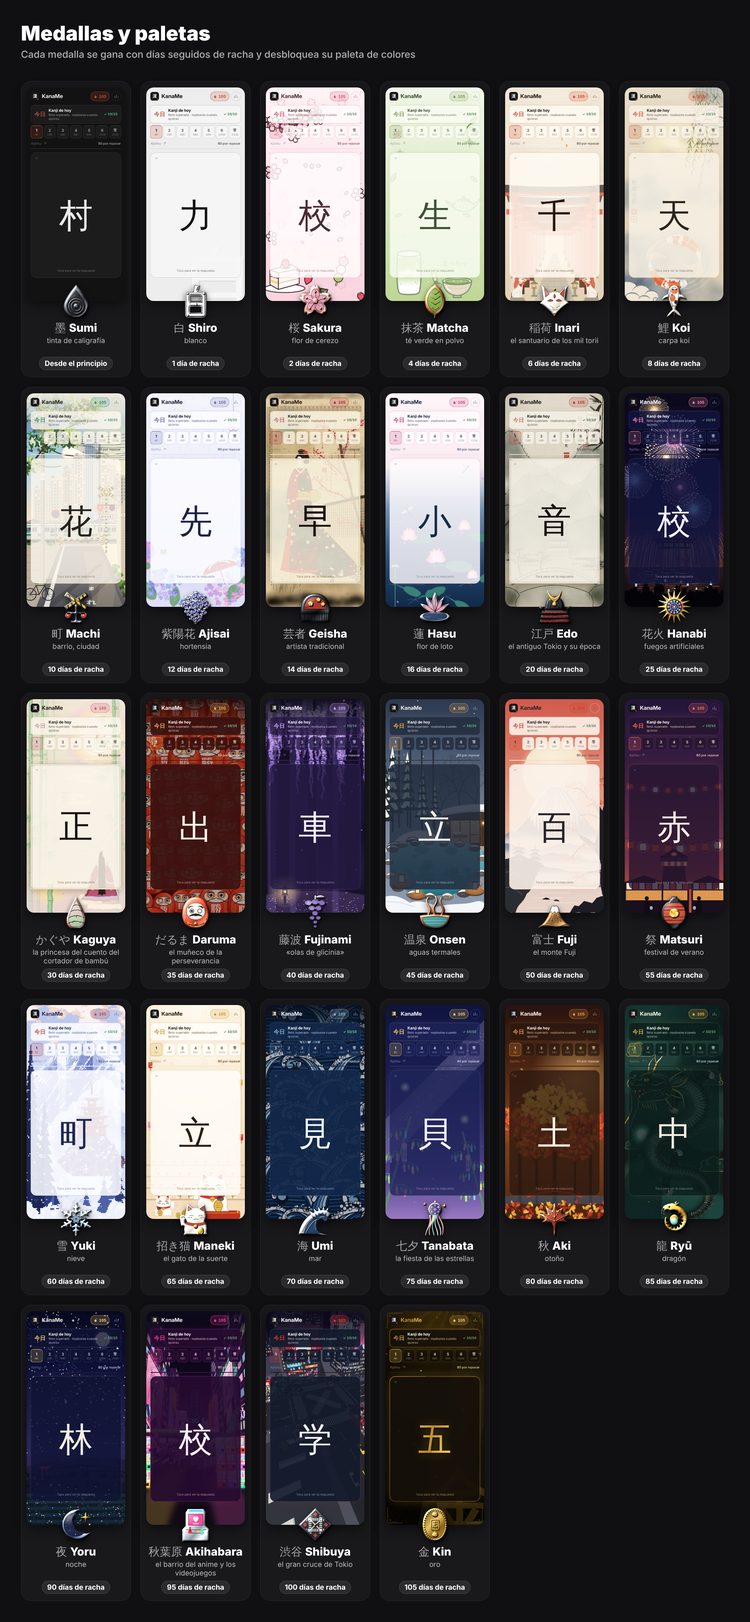
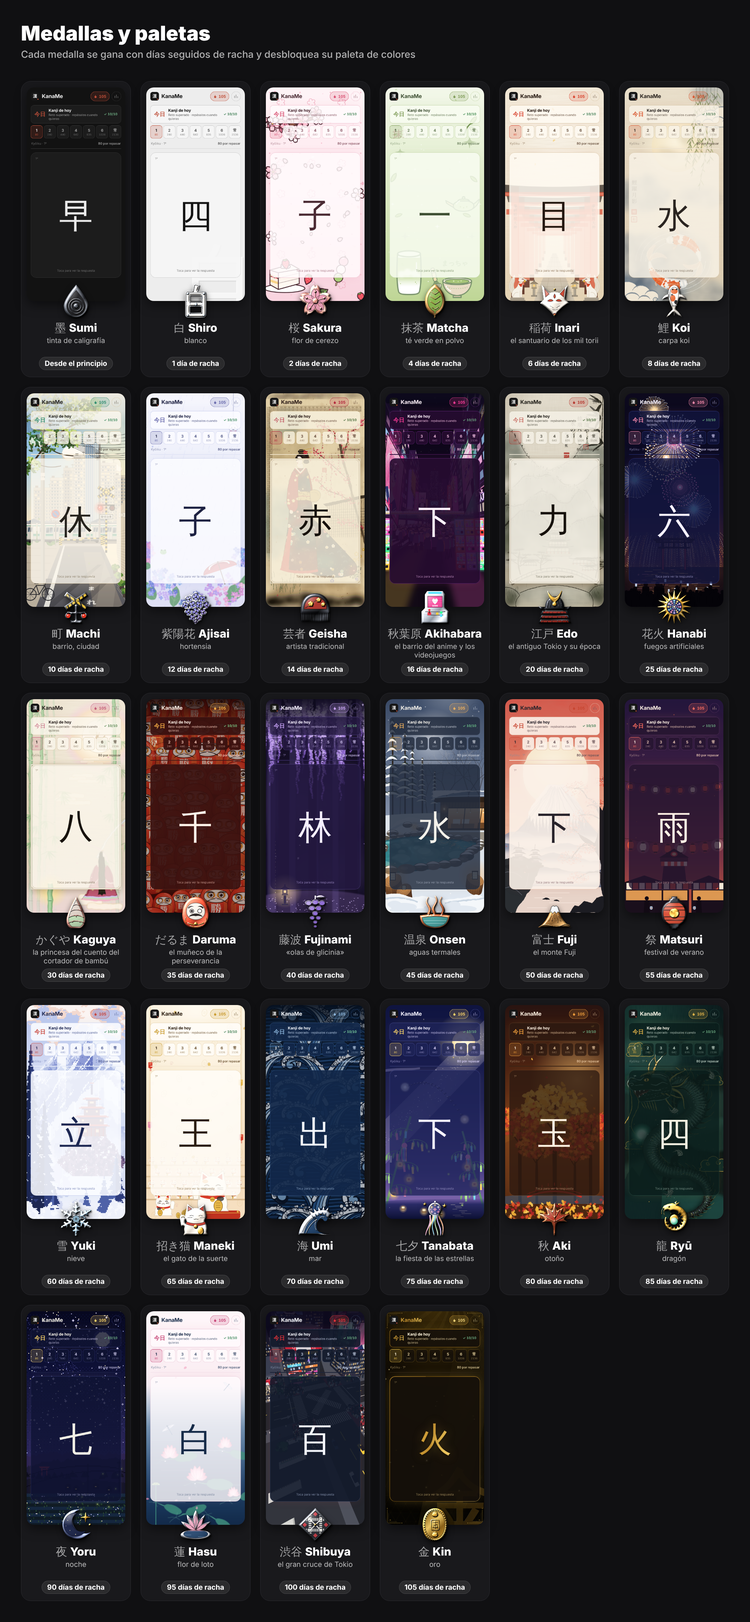
Onsen redibujado, Tanabata con luna y luciérnagas, Akihabara antes en la racha y comando rachaX

diff --git a/index.html b/index.html
@@ -3072,8 +3072,119 @@
   patchPal("shibuya", { bg: "#0b1020", surface: "#131a2c", raised: "#1b2438", hairline: "#33405c", text: "#f4f6fb", muted: "#b8c2d8", faint: "#7a86a0", accent: "#e8333a", status: "#ffd23f", surfA: "ea", grad: "#0b1020",
     pantone: "Inspirada en PANTONE Fiery Red 18-1664 (la gran pantalla y las esquinas), Classic Blue 19-4052 (la noche) y Bright White 11-0601 (las cebras)" });
 
+  // ================== v6 · 温泉 Onsen (v3): rotenburo nevado al anochecer, en 3D ==================
+  var ONP = null;
+  function onCam() { return ONP || (ONP = makeCam([0, 3.4, -1.6], .3, 0, 380, 200, 520)); }
+  function onsenScene3() {
+    var P = onCam(), r = seeded(1201), s = '<defs>' +
+      '<linearGradient id="os3" x1="0" y1="0" x2="0" y2="1"><stop offset="0" stop-color="#3a4a66"/><stop offset=".5" stop-color="#7a8aa6"/><stop offset="1" stop-color="#b8c4d4"/></linearGradient>' +
+      '<radialGradient id="ow3" cx=".5" cy=".4" r=".7"><stop offset="0" stop-color="#8ae0e6"/><stop offset=".6" stop-color="#3aa6b4"/><stop offset="1" stop-color="#1a6a7a"/></radialGradient>' +
+      '<radialGradient id="olg3"><stop offset="0" stop-color="#ffd59a" stop-opacity=".9"/><stop offset=".35" stop-color="#ffb35e" stop-opacity=".35"/><stop offset="1" stop-color="#ffb35e" stop-opacity="0"/></radialGradient>' +
+      '<linearGradient id="oin3" x1="0" y1="0" x2="0" y2="1"><stop offset="0" stop-color="#ffcf8a"/><stop offset="1" stop-color="#c8783a"/></linearGradient>' +
+      '<filter id="obl3" x="-30%" y="-30%" width="160%" height="160%"><feGaussianBlur stdDeviation="2.2"/></filter><filter id="obl4" x="-30%" y="-30%" width="160%" height="160%"><feGaussianBlur stdDeviation="7"/></filter>' +
+      '<filter id="osn" x="-10%" y="-10%" width="120%" height="120%"><feTurbulence type="fractalNoise" baseFrequency=".05" numOctaves="3" seed="4" result="n"/><feDisplacementMap in="SourceGraphic" in2="n" scale="6"/></filter></defs>';
+    s += '<rect width="400" height="860" fill="url(#os3)"/>';
+    // bosque al fondo: árboles desnudos nevados y cedros
+    function bare(x, y, len, a, dpt, w) { if (dpt === 0) return ''; var x2 = x + Math.cos(a) * len, y2 = y + Math.sin(a) * len, o = '<path d="M' + f(x) + ' ' + f(y) + 'L' + f(x2) + ' ' + f(y2) + '" stroke="#3a3a44" stroke-width="' + f(w) + '" stroke-linecap="round"/>'; if (dpt < 4 && r() > .4) o += '<path d="M' + f(x) + ' ' + f(y - w * .6) + 'L' + f(x2) + ' ' + f(y2 - w * .6) + '" stroke="#f4f7fa" stroke-width="' + f(w * .6) + '" stroke-linecap="round"/>'; return o + bare(x2, y2, len * .74, a - .3 - r() * .35, dpt - 1, w * .66) + bare(x2, y2, len * .74, a + .28 + r() * .35, dpt - 1, w * .66); }
+    s += '<g opacity=".75">' + bare(250, 470, 80, -1.6, 7, 4.4) + bare(330, 470, 90, -1.5, 7, 5) + bare(170, 470, 70, -1.7, 7, 3.6) + bare(395, 460, 80, -1.8, 7, 4.4) + bare(60, 470, 70, -1.55, 6, 3.4) + '</g>';
+    function cedar(x, base, h, w) { var o = '<rect x="' + f(x - 3) + '" y="' + f(base - h) + '" width="6" height="' + f(h) + '" fill="#2a2420"/>'; for (var k = 0; k < 9; k++) { var yy = base - h * .25 - k * h * .085, ww = w * (1 - k * .09); o += '<path d="M' + f(x - ww) + ' ' + f(yy) + 'Q' + f(x) + ' ' + f(yy - h * .1) + ' ' + f(x + ww) + ' ' + f(yy) + 'L' + f(x + ww * .3) + ' ' + f(yy - h * .06) + 'H' + f(x - ww * .3) + 'Z" fill="#20302c"/><path d="M' + f(x - ww * .9) + ' ' + f(yy - 2) + 'Q' + f(x - ww * .2) + ' ' + f(yy - h * .1) + ' ' + f(x + ww * .7) + ' ' + f(yy - 3) + 'Q' + f(x) + ' ' + f(yy - h * .05) + ' ' + f(x - ww * .9) + ' ' + f(yy - 2) + 'Z" fill="#f2f5f8"/>'; } return o; }
+    [[110, 480, 300, 34], [30, 500, 420, 50], [80, 490, 360, 42], [150, 476, 240, 28], [-20, 510, 460, 56], [200, 470, 180, 22]].forEach(function (c) { s += cedar(c[0], c[1], c[2], c[3]); });
+    s += '<path d="M-10 470C80 456 200 462 410 452V860H-10Z" fill="#dfe7f0"/>';
+    // ladera nevada con rocas y lucecitas (izquierda)
+    s += '<path d="M-10 600C10 500 60 470 120 476 160 480 180 500 186 540L170 620H-10Z" fill="#e8eef4" filter="url(#osn)"/><path d="M-10 560C30 510 80 494 140 500" fill="none" stroke="#c9d4e0" stroke-width="8" filter="url(#osn)"/>';
+    [[30, 540, 24, 14], [90, 506, 20, 12], [140, 520, 16, 10], [60, 574, 26, 15], [10, 596, 20, 12]].forEach(function (k) { s += '<ellipse cx="' + k[0] + '" cy="' + k[1] + '" rx="' + k[2] + '" ry="' + k[3] + '" fill="#5a5450"/><ellipse cx="' + (k[0] - k[2] * .25) + '" cy="' + (k[1] - k[3] * .3) + '" rx="' + (k[2] * .5) + '" ry="' + (k[3] * .4) + '" fill="#7a726a"/><path d="M' + (k[0] - k[2]) + ' ' + (k[1] - 2) + 'Q' + k[0] + ' ' + (k[1] - k[3] * 1.7) + ' ' + (k[0] + k[2]) + ' ' + (k[1] - 2) + 'Q' + k[0] + ' ' + (k[1] - k[3] * .7) + ' ' + (k[0] - k[2]) + ' ' + (k[1] - 2) + 'Z" fill="#f6f8fb"/>'; });
+    [[56, 556], [118, 514], [20, 610]].forEach(function (l) { s += '<circle cx="' + l[0] + '" cy="' + l[1] + '" r="22" fill="url(#olg3)"/><circle cx="' + l[0] + '" cy="' + l[1] + '" r="2.4" fill="#fff4d8"/>'; });
+    // cabaña de madera con el ventanal encendido (derecha)
+    var Pc = function (x, y, z) { return P(x - 1.6, y, z - 1.4); };
+    var c0 =Pc(2.2, 0, 10), c1 =Pc(9, 0, 10), c2 =Pc(2.2, 3, 10), c3 =Pc(9, 3, 10);
+    s += '<path d="' + poly(Pc, [[2.2, 0, 10], [2.2, 3.1, 10], [9, 3.1, 10], [9, 0, 10]]) + '" fill="#4a3426"/>';
+    for (var pl = 0; pl < 22; pl++) { var px = 2.2 + pl * .31; s += '<path d="M' +Pc(px, 0, 10).slice(0, 2).map(f).join(' ') + 'L' +Pc(px, 3.1, 10).slice(0, 2).map(f).join(' ') + '" stroke="#33241a" stroke-width="1.1"/>'; }
+    s += '<path d="' + poly(Pc, [[3, .2, 9.98], [3, 2.5, 9.98], [8.4, 2.5, 9.98], [8.4, .2, 9.98]]) + '" fill="url(#oin3)"/>';
+    // interior: banco, cojines, mesa y bombillas colgando
+    s += '<path d="' + poly(Pc, [[3.4, .2, 9.97], [3.4, .8, 9.97], [6, .8, 9.97], [6, .2, 9.97]]) + '" fill="#8a5a34"/><path d="' + poly(Pc, [[3.6, .8, 9.96], [3.6, 1.3, 9.96], [4.4, 1.3, 9.96], [4.4, .8, 9.96]]) + '" fill="#f3e6d0"/><path d="' + poly(Pc, [[4.6, .8, 9.96], [4.6, 1.3, 9.96], [5.4, 1.3, 9.96], [5.4, .8, 9.96]]) + '" fill="#f3e6d0"/><path d="' + poly(Pc, [[6.4, .2, 9.97], [6.4, .9, 9.97], [7.8, .9, 9.97], [7.8, .2, 9.97]]) + '" fill="#6a4426"/>';
+    [4, 5.4, 6.8, 7.8].forEach(function (bx) { var t =Pc(bx, 2.5, 9.96), b =Pc(bx, 2.1, 9.96); s += '<path d="M' + f(t[0]) + ' ' + f(t[1]) + 'L' + f(b[0]) + ' ' + f(b[1]) + '" stroke="#3a2a1e" stroke-width=".8"/><circle cx="' + f(b[0]) + '" cy="' + f(b[1] + 3) + '" r="10" fill="url(#olg3)"/><circle cx="' + f(b[0]) + '" cy="' + f(b[1] + 3) + '" r="2.6" fill="#fff6d8"/>'; });
+    [4.8, 6.6].forEach(function (mx) { s += '<path d="M' +Pc(mx, .2, 9.95).slice(0, 2).map(f).join(' ') + 'L' +Pc(mx, 2.5, 9.95).slice(0, 2).map(f).join(' ') + '" stroke="#3a2a1e" stroke-width="3"/>'; });
+    s += '<path d="' + poly(Pc, [[3, .2, 9.95], [3, 2.5, 9.95], [8.4, 2.5, 9.95], [8.4, .2, 9.95]]) + '" fill="none" stroke="#2a1e16" stroke-width="3"/>';
+    s += '<path d="' + poly(Pc, [[3, 2.5, 9.94], [3, 1.6, 9.94], [8.4, 2.5, 9.94]]) + '" fill="#fff" fill-opacity=".08"/>';
+    // farolillos de pared y tejado con nieve gruesa
+    [[2.6, 2.4], [8.8, 2.4]].forEach(function (w) { var p =Pc(w[0], w[1], 9.95); s += '<circle cx="' + f(p[0]) + '" cy="' + f(p[1]) + '" r="22" fill="url(#olg3)"/><rect x="' + f(p[0] - 3) + '" y="' + f(p[1] - 4) + '" width="6" height="8" rx="1.4" fill="#ffe2a8"/>'; });
+    s += '<path d="' + poly(Pc, [[1.6, 3.1, 9.4], [1.6, 3.6, 9.4], [9.6, 3.6, 9.4], [9.6, 3.1, 9.4]]) + '" fill="#2a1e16"/>';
+    s += '<path d="M' +Pc(1.4, 3.5, 9.3).slice(0, 2).map(f).join(' ') + 'Q' +Pc(5.5, 4.6, 9.3).slice(0, 2).map(f).join(' ') + ' ' +Pc(9.8, 3.6, 9.3).slice(0, 2).map(f).join(' ') + 'L' +Pc(9.8, 4.3, 11).slice(0, 2).map(f).join(' ') + 'L' +Pc(1.4, 4.3, 11).slice(0, 2).map(f).join(' ') + 'Z" fill="#f6f9fc" filter="url(#osn)"/>';
+    s += '<path d="M' +Pc(1.4, 3.5, 9.3).slice(0, 2).map(f).join(' ') + 'Q' +Pc(5.5, 3.9, 9.3).slice(0, 2).map(f).join(' ') + ' ' +Pc(9.8, 3.6, 9.3).slice(0, 2).map(f).join(' ') + '" fill="none" stroke="#c4d0de" stroke-width="3"/>';
+    // cubo de madera y barril
+    var bk =Pc(8.6, 0, 9.4); s += '<rect x="' + f(bk[0] - 9) + '" y="' + f(bk[1] - 18) + '" width="18" height="18" rx="2" fill="#5a3a24"/><path d="M' + f(bk[0] - 9) + ' ' + f(bk[1] - 12) + 'h18M' + f(bk[0] - 9) + ' ' + f(bk[1] - 5) + 'h18" stroke="#2a1a10" stroke-width="1.6"/>';
+    // terraza de losas delante de la cabaña
+    s += '<path d="' + poly(Pc, [[1.4, 0, 9.4], [9.8, 0, 9.4], [9.8, 0, 6], [3.2, 0, 6.8]]) + '" fill="#9a948a"/>';
+    // la poza: agua turquesa transparente con piedras en el fondo y reflejos cálidos
+    var ring = [];
+    for (var k = 0; k <= 36; k++) { var a = k / 36 * Math.PI * 2, rr = 1 + .12 * Math.sin(a * 3 + 1) + .08 * Math.sin(a * 5); ring.push([-.7 + Math.cos(a) * 3.7 * rr, -.05, 4.7 + Math.sin(a) * 2.4 * rr]); }
+    var poolD = poly(P, ring);
+    s += '<defs><clipPath id="opc3"><path d="' + poolD + '"/></clipPath></defs><path d="' + poolD + '" fill="url(#ow3)"/><g clip-path="url(#opc3)">';
+    for (var st = 0; st < 50; st++) { var sx = -4.4 + r() * 7.4, sz = 2.2 + r() * 5, sp = P(sx, -.6, sz), sr = (14 + r() * 26) * 380 / sp[2] / 30; s += '<ellipse cx="' + f(sp[0]) + '" cy="' + f(sp[1]) + '" rx="' + f(sr) + '" ry="' + f(sr * .55) + '" fill="' + ["#2a7a86", "#3a8a92", "#4a9aa0", "#5aa8ac"][(r() * 4) | 0] + '" fill-opacity=".6" filter="url(#obl3)"/><ellipse cx="' + f(sp[0] - sr * .2) + '" cy="' + f(sp[1] - sr * .2) + '" rx="' + f(sr * .5) + '" ry="' + f(sr * .25) + '" fill="#9ae4e8" fill-opacity=".35"/>'; }
+    for (var rf = 0; rf < 70; rf++) { var rx = .4 + r() * 2.8, rz = 4.6 + r() * 2.6, rp = P(rx, -.05, rz); s += '<path d="M' + f(rp[0]) + ' ' + f(rp[1]) + 'h' + f(3 + r() * 9) + '" stroke="#ffd59a" stroke-opacity="' + f(.35 + r() * .5) + '" stroke-width="1.8" stroke-linecap="round"/>'; }
+    for (var wv = 0; wv < 20; wv++) { var wx = -4.4 + r() * 7.4, wz = 2.4 + r() * 4.6, wp = P(wx, -.05, wz); s += '<path d="M' + f(wp[0]) + ' ' + f(wp[1]) + 'q8 -3 16 0" fill="none" stroke="#d9fbff" stroke-opacity=".5" stroke-width="1.2"/>'; }
+    s += '<path d="' + poolD + '" fill="none" stroke="#1a5a66" stroke-width="10" filter="url(#obl3)"/></g>';
+    // rocas del borde con nieve (de lejos a cerca)
+    ring.slice(0, 36).map(function (p, i) { return [p, i]; }).sort(function (a, b) { return P(b[0][0], 0, b[0][2])[2] - P(a[0][0], 0, a[0][2])[2]; }).forEach(function (q) {
+      var p = q[0], i = q[1], pp = P(p[0], .15, p[2]), sc = 380 / pp[2], rw = (.3 + r() * .16) * sc, rh = rw * (.5 + r() * .2), col = ["#5a5650", "#6b655c", "#4a4743", "#7a7368", "#625a50"][i % 5];
+      s += '<ellipse cx="' + f(pp[0]) + '" cy="' + f(pp[1]) + '" rx="' + f(rw) + '" ry="' + f(rh) + '" fill="' + col + '"/><ellipse cx="' + f(pp[0] - rw * .25) + '" cy="' + f(pp[1] - rh * .15) + '" rx="' + f(rw * .45) + '" ry="' + f(rh * .35) + '" fill="#fff" fill-opacity=".12"/>';
+      if (r() > .25) s += '<path d="M' + f(pp[0] - rw * .9) + ' ' + f(pp[1] - rh * .3) + 'Q' + f(pp[0]) + ' ' + f(pp[1] - rh * 1.6) + ' ' + f(pp[0] + rw * .85) + ' ' + f(pp[1] - rh * .35) + 'Q' + f(pp[0]) + ' ' + f(pp[1] - rh * .55) + ' ' + f(pp[0] - rw * .9) + ' ' + f(pp[1] - rh * .3) + 'Z" fill="#f6f9fc"/>';
+    });
+    // tarimas redondas de madera con farolillos andon (delante)
+    function stump(x, z, R) { var o = '', top = [], side = [];
+      for (var k = 0; k <= 24; k++) { var a = k / 24 * Math.PI * 2; top.push([x + Math.cos(a) * R, .45, z + Math.sin(a) * R]); }
+      for (var q = 0; q < 24; q++) { var A = top[q], B = top[q + 1]; o += '<path d="' + poly(P, [A, B, [B[0], 0, B[2]], [A[0], 0, A[2]]]) + '" fill="' + (Math.cos(q / 24 * Math.PI * 2) > 0 ? '#5a3822' : '#6e4628') + '" stroke="#4a2e1c" stroke-width=".6"/>'; }
+      o += '<path d="' + poly(P, top) + '" fill="#a8764a" stroke="#6a4426" stroke-width="1.4"/>';
+      for (var g = 1; g < 5; g++) { var ring2 = []; for (var k2 = 0; k2 <= 24; k2++) { var a2 = k2 / 24 * Math.PI * 2; ring2.push([x + Math.cos(a2) * R * g / 5, .451, z + Math.sin(a2) * R * g / 5]); } o += '<path d="' + poly(P, ring2) + '" fill="none" stroke="#7a5030" stroke-width="1"/>'; }
+      return o; }
+    function andon(x, z, sc) { var b = P(x, .45, z), t = P(x, .45 + .55 * sc, z), w = (b[1] - t[1]) * .7;
+      return '<circle cx="' + f(b[0]) + '" cy="' + f((b[1] + t[1]) / 2) + '" r="' + f(w * 3.2) + '" fill="url(#olg3)"/><rect x="' + f(b[0] - w / 2) + '" y="' + f(t[1]) + '" width="' + f(w) + '" height="' + f(b[1] - t[1]) + '" fill="#fff2d0" stroke="#3a2a1e" stroke-width="' + f(w * .12) + '"/><path d="M' + f(b[0] - w / 2) + ' ' + f(t[1] + (b[1] - t[1]) * .33) + 'h' + f(w) + 'M' + f(b[0] - w / 2) + ' ' + f(t[1] + (b[1] - t[1]) * .66) + 'h' + f(w) + '" stroke="#e8c88a" stroke-width="' + f(w * .06) + '"/><rect x="' + f(b[0] - w * .6) + '" y="' + f(t[1] - w * .14) + '" width="' + f(w * 1.2) + '" height="' + f(w * .16) + '" fill="#3a2a1e"/>'; }
+    s += stump(-1.6, 1.25, .3) + andon(-1.6, 1.25, .62) + stump(-1.05, .85, .24) + '<g>' + (function () { var b = P(-1.05, .45, .85), w = 8; return '<circle cx="' + f(b[0]) + '" cy="' + f(b[1] - 8) + '" r="30" fill="url(#olg3)"/><rect x="' + f(b[0] - w) + '" y="' + f(b[1] - 18) + '" width="' + (w * 2) + '" height="18" rx="3" fill="#ffe8b8" stroke="#3a2a1e" stroke-width="1.6"/>'; })() + '</g>' + stump(1.55, 1.3, .3) + andon(1.55, 1.3, .64);
+    // nieve del primer plano, mullida
+    s += '<path d="M-10 860V790C30 776 70 784 110 800 150 786 190 796 220 812 260 800 310 806 350 790 380 782 410 790 410 860Z" fill="#f4f7fa" filter="url(#osn)"/><path d="M-10 806C40 792 90 802 130 816M240 822C290 810 340 814 410 800" fill="none" stroke="#cad6e2" stroke-width="6" filter="url(#osn)"/>';
+    for (var sb = 0; sb < 12; sb++) s += '<ellipse cx="' + f(r() * 400) + '" cy="' + f(826 + r() * 34) + '" rx="' + f(20 + r() * 40) + '" ry="' + f(8 + r() * 10) + '" fill="#e2e9f1"/>';
+    return svg(s, 400, 860);
+  }
+  // vapor que sube del agua
+  function onsenFx3(d, node) { for (var k = 0; k < 4; k++) d.appendChild(node("steam", "left:" + (14 + k * 18) + "%;bottom:28vh;animation-delay:" + (-k * 3.6) + "s;animation-duration:" + (12 + k * 1.6) + "s")); }
+  (window.KANAME_PALETTES || []).forEach(function (p) { if (p.id === "onsen") { p.scene = onsenScene3; p.fx = onsenFx3; p.steam = false; } });
+
+  // ================== v6 · 七夕 Tanabata: luna, puente de urracas, luciérnagas y farolillos en el río ==================
+  function tanabataExtra() {
+    var r = seeded(1301), s = '<defs><radialGradient id="tmo"><stop offset="0" stop-color="#fffbe8"/><stop offset=".7" stop-color="#fff1c8"/><stop offset="1" stop-color="#f6dca0"/></radialGradient><radialGradient id="tmg"><stop offset=".5" stop-color="#fff2c0" stop-opacity=".35"/><stop offset="1" stop-color="#fff2c0" stop-opacity="0"/></radialGradient>' +
+      '<radialGradient id="tlg"><stop offset="0" stop-color="#ffd27a" stop-opacity=".9"/><stop offset="1" stop-color="#ffd27a" stop-opacity="0"/></radialGradient><linearGradient id="trv" x1="0" y1="0" x2="0" y2="1"><stop offset="0" stop-color="#1a2058" stop-opacity="0"/><stop offset=".3" stop-color="#1a2058" stop-opacity=".85"/><stop offset="1" stop-color="#0c1034"/></linearGradient></defs>';
+    // luna llena con halo y manchas
+    s += '<circle cx="316" cy="150" r="120" fill="url(#tmg)"/><circle cx="316" cy="150" r="46" fill="url(#tmo)"/><g fill="#e8d4a0" fill-opacity=".45"><ellipse cx="300" cy="140" rx="12" ry="8"/><ellipse cx="326" cy="166" rx="9" ry="6"/><ellipse cx="330" cy="134" rx="6" ry="4"/></g>';
+    // nubes finas delante de la luna
+    s += '<path d="M230 196C260 186 300 192 340 186S400 190 420 186V196C390 202 350 198 310 204S250 204 230 196Z" fill="#c9c0f0" fill-opacity=".35"/><path d="M-10 260C40 250 90 256 140 250V258C90 266 40 262 -10 270Z" fill="#c9c0f0" fill-opacity=".25"/>';
+    // puente de urracas sobre la Vía Láctea, entre Orihime y Hikoboshi
+    var A = [80, 330], B = [320, 460];
+    for (var k = 1; k < 18; k++) { var t = k / 18, x = A[0] + (B[0] - A[0]) * t, y = A[1] + (B[1] - A[1]) * t - Math.sin(t * Math.PI) * 70, sc = .8 + r() * .4, fl = (k % 2 ? 1 : -1);
+      s += '<g transform="translate(' + f(x) + ' ' + f(y) + ') scale(' + f(sc) + ') rotate(' + f(-20 + r() * 40) + ')"><path d="M-9 0Q-4 -6 0 0Q4 -6 9 0Q4 -2 0 2Q-4 -2 -9 0Z" fill="#1a1a2e"/><path d="M0 0L-2 5 2 5Z" fill="#1a1a2e"/><path d="M-6 -1.4Q-3 -4 -1 -1" fill="none" stroke="#f4f2ff" stroke-width=".9"/></g>'; }
+    s += '<circle cx="80" cy="330" r="5" fill="#fff"/><circle cx="320" cy="460" r="5" fill="#fff"/><circle cx="80" cy="330" r="16" fill="#cfe0ff" fill-opacity=".35"/><circle cx="320" cy="460" r="16" fill="#ffe0cf" fill-opacity=".35"/>';
+    // farolillos colgando del bambú
+    [[60, 640], [96, 700], [330, 650], [360, 720], [34, 760]].forEach(function (l) { s += '<path d="M' + l[0] + ' ' + (l[1] - 22) + 'V' + (l[1] - 8) + '" stroke="#e6e0d0" stroke-width=".8"/><circle cx="' + l[0] + '" cy="' + l[1] + '" r="26" fill="url(#tlg)"/><path d="M' + (l[0] - 7) + ' ' + (l[1] - 8) + 'C' + (l[0] - 12) + ' ' + (l[1] - 4) + ' ' + (l[0] - 12) + ' ' + (l[1] + 8) + ' ' + (l[0] - 7) + ' ' + (l[1] + 10) + 'H' + (l[0] + 7) + 'C' + (l[0] + 12) + ' ' + (l[1] + 8) + ' ' + (l[0] + 12) + ' ' + (l[1] - 4) + ' ' + (l[0] + 7) + ' ' + (l[1] - 8) + 'Z" fill="#ffd27a"/><path d="M' + (l[0] - 10) + ' ' + (l[1] - 2) + 'H' + (l[0] + 10) + 'M' + (l[0] - 10) + ' ' + (l[1] + 4) + 'H' + (l[0] + 10) + '" stroke="#e88a3a" stroke-width=".8"/><text x="' + l[0] + '" y="' + (l[1] + 4) + '" font-family="' + MINCHO + '" font-size="9" text-anchor="middle" fill="#a8302a">願</text>'; });
+    // río al pie, con reflejo de la luna
+    s += '<path d="M-10 790C80 778 200 784 410 776V860H-10Z" fill="url(#trv)"/>';
+    for (var w = 0; w < 10; w++) s += '<rect x="' + f(290 + (r() - .5) * 60) + '" y="' + f(796 + w * 6) + '" width="' + f(16 + r() * 30) + '" height="1.6" rx=".8" fill="#fff1c8" fill-opacity="' + f(.6 - w * .05) + '"/>';
+    return svg(s, 400, 860);
+  }
+  // luciérnagas que se encienden y se mueven, y farolillos de papel que bajan por el río
+  function tanabataFx(d, node) {
+    var r = seeded(1311), s = '<defs><radialGradient id="tff"><stop offset="0" stop-color="#f6ffb0"/><stop offset=".3" stop-color="#d8ff6a" stop-opacity=".7"/><stop offset="1" stop-color="#b8ff4a" stop-opacity="0"/></radialGradient><radialGradient id="tlg2"><stop offset="0" stop-color="#ffcf7a" stop-opacity=".9"/><stop offset="1" stop-color="#ffcf7a" stop-opacity="0"/></radialGradient></defs>';
+    for (var k = 0; k < 34; k++) { var x = r() * 400, y = 520 + r() * 300, dur = 3 + r() * 4, mv = 6 + r() * 10, beg = f(r() * dur);
+      s += '<g><animateTransform attributeName="transform" type="translate" values="0 0;' + f(mv) + ' ' + f(-mv) + ';' + f(-mv * .6) + ' ' + f(-mv * 1.4) + ';0 0" dur="' + f(dur * 2.4) + 's" begin="' + beg + 's" repeatCount="indefinite"/><circle cx="' + f(x) + '" cy="' + f(y) + '" r="7" fill="url(#tff)" opacity="0"><animate attributeName="opacity" values="0;1;0;0" keyTimes="0;0.25;0.55;1" dur="' + f(dur) + 's" begin="' + beg + 's" repeatCount="indefinite"/></circle><circle cx="' + f(x) + '" cy="' + f(y) + '" r="1.3" fill="#fbffd8" opacity="0"><animate attributeName="opacity" values="0;1;0;0" keyTimes="0;0.25;0.55;1" dur="' + f(dur) + 's" begin="' + beg + 's" repeatCount="indefinite"/></circle></g>'; }
+    for (var j = 0; j < 4; j++) { var y2 = 808 + j * 11, sc = .8 + j * .15;
+      s += '<g><animateTransform attributeName="transform" type="translate" values="-60 0;460 0" dur="' + (34 + j * 6) + 's" begin="' + (-j * 9) + 's" repeatCount="indefinite"/><circle cx="0" cy="' + y2 + '" r="' + f(18 * sc) + '" fill="url(#tlg2)"/><rect x="' + f(-6 * sc) + '" y="' + f(y2 - 10 * sc) + '" width="' + f(12 * sc) + '" height="' + f(10 * sc) + '" fill="#fff0c8" stroke="#8a5a2a" stroke-width=".8"/><rect x="' + f(-8 * sc) + '" y="' + f(y2) + '" width="' + f(16 * sc) + '" height="' + f(2.4 * sc) + '" fill="#6a4426"/></g>'; }
+    d.appendChild(node("scene", "background-image:" + svg(s, 400, 860)));
+  }
+  (window.KANAME_PALETTES || []).forEach(function (p) { if (p.id === "tanabata") { var old = p.scene; p.scene = function () { return tanabataExtra() + ", " + old(); }; p.fx = tanabataFx; } });
+
+  // Akihabara sube al puesto de Hasu (se conoce antes) y Hasu pasa al de Akihabara
+  (function () { var P = window.KANAME_PALETTES, a = -1, h = -1; P.forEach(function (p, i) { if (p.id === "akihabara") a = i; if (p.id === "hasu") h = i; }); if (a >= 0 && h >= 0) { var t = P[a]; P[a] = P[h]; P[h] = t; } })();
+
   // Días de racha de cada paleta en KanaMe Kanji: 1, 2, 4… y desde Edo (20) una cada 5 días hasta Kin
-  (function () { var D = { sumi: 0, shiro: 1, sakura: 2, matcha: 4, inari: 6, koi: 8, machi: 10, ajisai: 12, geisha: 14, hasu: 16, edo: 20, hanabi: 25, kaguya: 30, daruma: 35, fuji: 40, onsen: 45, fujisan: 50, matsuri: 55, yuki: 60, maneki: 65, umi: 70, tanabata: 75, momiji: 80, ryu: 85, yoru: 90, akihabara: 95, shibuya: 100, kin: 105 }; window.KANAME_PALETTES.forEach(function (p) { if (p.id in D) p.days = D[p.id]; }); })();
+  (function () { var D = { sumi: 0, shiro: 1, sakura: 2, matcha: 4, inari: 6, koi: 8, machi: 10, ajisai: 12, geisha: 14, akihabara: 16, edo: 20, hanabi: 25, kaguya: 30, daruma: 35, fuji: 40, onsen: 45, fujisan: 50, matsuri: 55, yuki: 60, maneki: 65, umi: 70, tanabata: 75, momiji: 80, ryu: 85, yoru: 90, hasu: 95, shibuya: 100, kin: 105 }; window.KANAME_PALETTES.forEach(function (p) { if (p.id in D) p.days = D[p.id]; }); })();
 
   function rnd(a, b) { return a + Math.random() * (b - a); }
   function pick(a) { return a[Math.floor(Math.random() * a.length)]; }
@@ -4822,29 +4933,30 @@
   };
   /* ================= Centro de comandos (secreto) =================
      Se abre escribiendo «lucas» (en KanaMe Kana, como respuesta; en KanaMe Kanji, en el cuadro de restaurar).
-     «racha X» cambia la mayor racha a X: se desbloquean o vuelven a bloquear las paletas que toque
+     «rachaX» (p. ej. racha30) cambia la mayor racha a X: se desbloquean o vuelven a bloquear las paletas que toque
      (y al volver a ganarlas sale otra vez la animación de la medalla). La paleta vuelve siempre a Sumi. */
   function openConsole() {
     document.querySelectorAll(".sheet-backdrop.open").forEach(function (e) { e.classList.remove("open"); });
     var bd = $("cmdSheet");
     if (!bd) {
       bd = document.createElement("div"); bd.className = "sheet-backdrop"; bd.id = "cmdSheet";
-      bd.innerHTML = '<div class="sheet" role="dialog" aria-modal="true" aria-label="Comandos"><h2>Comandos</h2><p class="sub"><b>racha X</b>: cambia tu mayor racha a X días y desbloquea o vuelve a bloquear las paletas que correspondan.</p>' +
-        '<input type="text" id="cmdInput" autocapitalize="none" autocorrect="off" spellcheck="false" enterkeyhint="send" placeholder="racha 30" style="width:100%;box-sizing:border-box;padding:12px 14px;border-radius:12px;border:1px solid var(--hairline);background:var(--bg);color:var(--text);font:inherit;font-size:16px">' +
+      bd.innerHTML = '<div class="sheet" role="dialog" aria-modal="true" aria-label="Comandos"><h2>Comandos</h2><p class="sub"><b>rachaX</b> (por ejemplo racha30): cambia tu mayor racha a X días y desbloquea o vuelve a bloquear las paletas que correspondan.</p>' +
+        '<input type="text" id="cmdInput" autocapitalize="none" autocorrect="off" spellcheck="false" enterkeyhint="send" placeholder="racha30" style="width:100%;box-sizing:border-box;padding:12px 14px;border-radius:12px;border:1px solid var(--hairline);background:var(--bg);color:var(--text);font:inherit;font-size:16px">' +
         '<div class="row" style="margin-top:10px;display:flex;gap:8px"><button class="pill-btn" id="cmdRun">Ejecutar</button><button class="pill-btn ghost" id="cmdClose">Cerrar</button></div><p class="note" id="cmdOut" style="margin-top:12px"></p></div>';
       document.body.appendChild(bd);
       bd.addEventListener("click", function (e) { if (e.target === bd) bd.classList.remove("open"); });
       $("cmdClose").onclick = function () { bd.classList.remove("open"); };
       $("cmdRun").onclick = runCommand;
-      $("cmdInput").addEventListener("keydown", function (e) { if (e.key === "Enter") { e.preventDefault(); runCommand(); } });
+      $("cmdInput").addEventListener("keydown", function (e) { e.stopPropagation(); if (e.key === "Enter") { e.preventDefault(); runCommand(); } });
+      $("cmdInput").addEventListener("keyup", function (e) { e.stopPropagation(); });
     }
     $("cmdOut").textContent = "Mayor racha actual: " + streak.best + (streak.best === 1 ? " día." : " días.");
     bd.classList.add("open");
     setTimeout(function () { $("cmdInput").focus(); }, 60);
   }
   function runCommand() {
-    var v = $("cmdInput").value.trim().toLowerCase(), m = v.match(/^racha\s+(\d+)$/), out = $("cmdOut");
-    if (!m) { out.textContent = "Comando no reconocido. Prueba: racha 30"; return; }
+    var v = $("cmdInput").value.trim().toLowerCase(), m = v.match(/^racha\s*(\d+)$/), out = $("cmdOut");
+    if (!m) { out.textContent = "Comando no reconocido. Prueba: racha30"; return; }
     var x = parseInt(m[1], 10);
     if (!(x > 0)) { out.textContent = "El número tiene que ser 1 o mayor."; return; }
     streak.best = x;

diff --git a/sw.js b/sw.js
@@ -1,7 +1,7 @@
 /* KanaMe service worker — permite usar la app sin conexión.
    Estrategia "red primero": si hay internet siempre carga la última versión;
    si no, usa la copia guardada. Sube VERSION al publicar cambios grandes. */
-const VERSION = "kaname-v27";
+const VERSION = "kaname-v28";
 const CORE = ["./", "index.html", "data/kanji.js", "site.webmanifest", "icons/icon-192.png", "apple-touch-icon.png"];
 
 self.addEventListener("install", (e) => {

diff --git a/README.md b/README.md
@@ -39,7 +39,7 @@ Tu progreso se guarda solo en el móvil y se comparte entre niveles: lo que ya s
 - **今日 Kanji de hoy.** Cada día, al abrir la app, KanaMe prepara tus kanji nuevos (5, 10 o 20, lo eliges la primera vez y puedes cambiarlo en Progreso) elegidos al azar del nivel más sencillo que aún tengas sin estudiar. La lista se genera una sola vez al día y sin conexión.
 - **🔥 Racha.** Supera el reto diario (todos los kanji de hoy marcados con ✓; los de ✕ se repiten hasta que te los sepas) para sumar un día a tu racha.
 - **🔔 Recordatorio diario.** La primera vez que abres la app te ofrece un aviso diario a la hora que elijas. Si ese día ya has hecho tus kanji, no te molesta. La hora se cambia o se desactiva en *Progreso*.
-- **Medallas y paletas.** Cada medalla tiene su silueta y su material (mármol, oro rosa, bronce, laca, nácar, plata…) y desbloquea una paleta con su propio fondo y efectos: 白 Shiro (1 día), 桜 Sakura (2), 抹茶 Matcha (4), 稲荷 Inari (6), 鯉 Koi (8), 町 Machi (10), 紫陽花 Ajisai (12), 芸者 Geisha (14), 蓮 Hasu (16), 江戸 Edo (20) y desde ahí una cada 5 días: 花火 Hanabi (25), かぐや Kaguya (30), だるま Daruma (35), 藤波 Fujinami (40), 温泉 Onsen (45), 富士 Fuji (50), 祭 Matsuri (55), 雪 Yuki (60), 招き猫 Maneki (65), 海 Umi (70), 七夕 Tanabata (75), 秋 Aki (80), 龍 Ryū (85), 夜 Yoru (90), 秋葉原 Akihabara (95), 渋谷 Shibuya (100) y 金 Kin (105). Edo, Kaguya y Geisha cambian además la letra a pincel; Machi, Hanabi, Akihabara y Shibuya tienen fondos animados (el tren, los fuegos, las pantallas y la multitud cruzando). Las ganadas no se pierden aunque se rompa la racha.
+- **Medallas y paletas.** Cada medalla tiene su silueta y su material (mármol, oro rosa, bronce, laca, nácar, plata…) y desbloquea una paleta con su propio fondo y efectos: 白 Shiro (1 día), 桜 Sakura (2), 抹茶 Matcha (4), 稲荷 Inari (6), 鯉 Koi (8), 町 Machi (10), 紫陽花 Ajisai (12), 芸者 Geisha (14), 秋葉原 Akihabara (16), 江戸 Edo (20) y desde ahí una cada 5 días: 花火 Hanabi (25), かぐや Kaguya (30), だるま Daruma (35), 藤波 Fujinami (40), 温泉 Onsen (45), 富士 Fuji (50), 祭 Matsuri (55), 雪 Yuki (60), 招き猫 Maneki (65), 海 Umi (70), 七夕 Tanabata (75), 秋 Aki (80), 龍 Ryū (85), 夜 Yoru (90), 蓮 Hasu (95), 渋谷 Shibuya (100) y 金 Kin (105). Edo, Kaguya y Geisha cambian además la letra a pincel; Machi, Akihabara, Hanabi, Tanabata y Shibuya tienen fondos animados (el tren, las pantallas, los fuegos, las luciérnagas y la multitud cruzando). Las ganadas no se pierden aunque se rompa la racha.
 
 ## Por qué se aprende tan rápido
 
